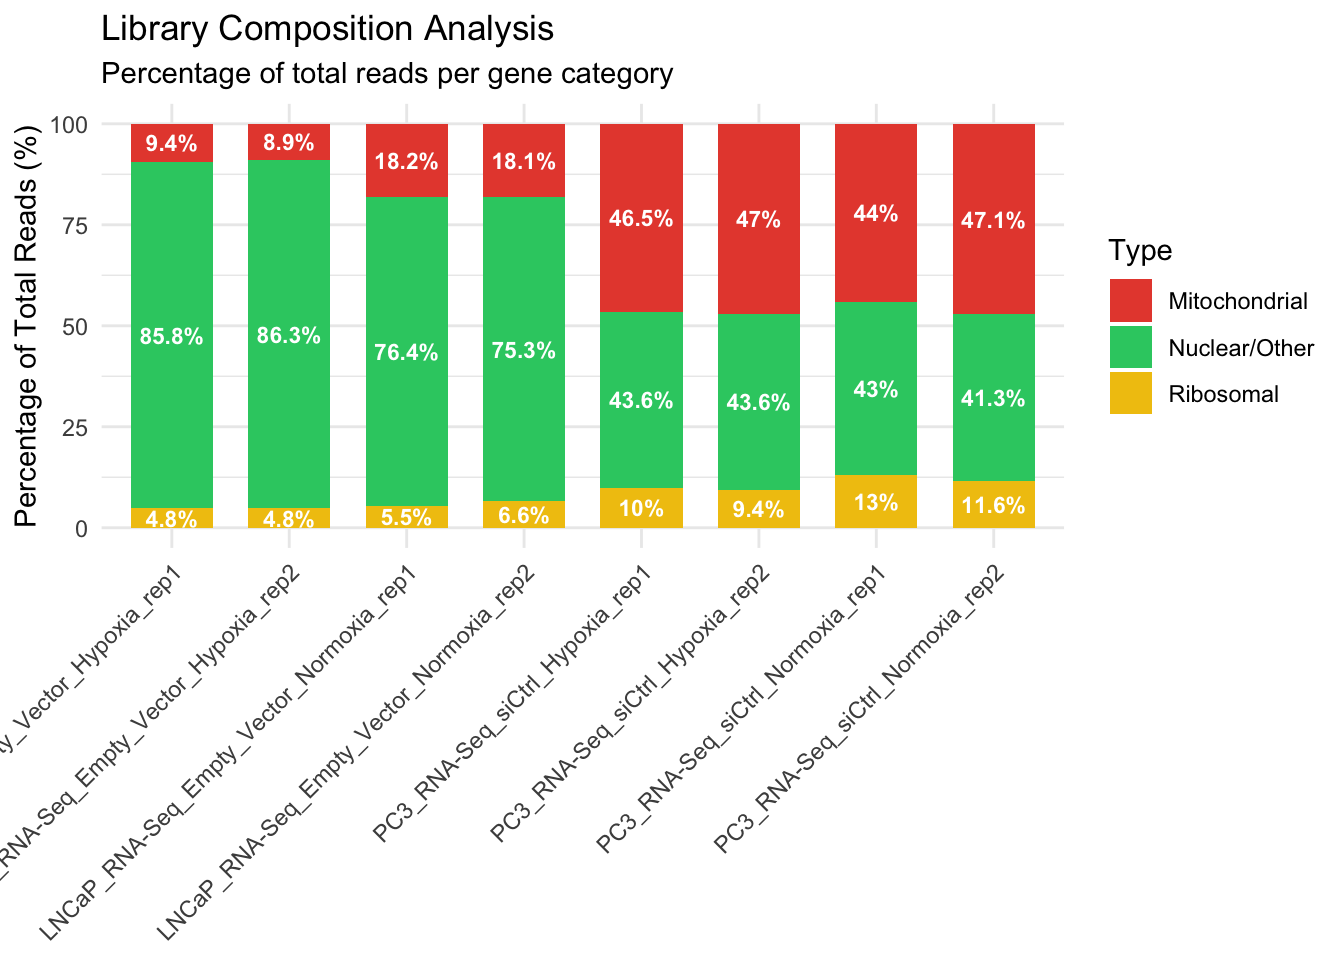
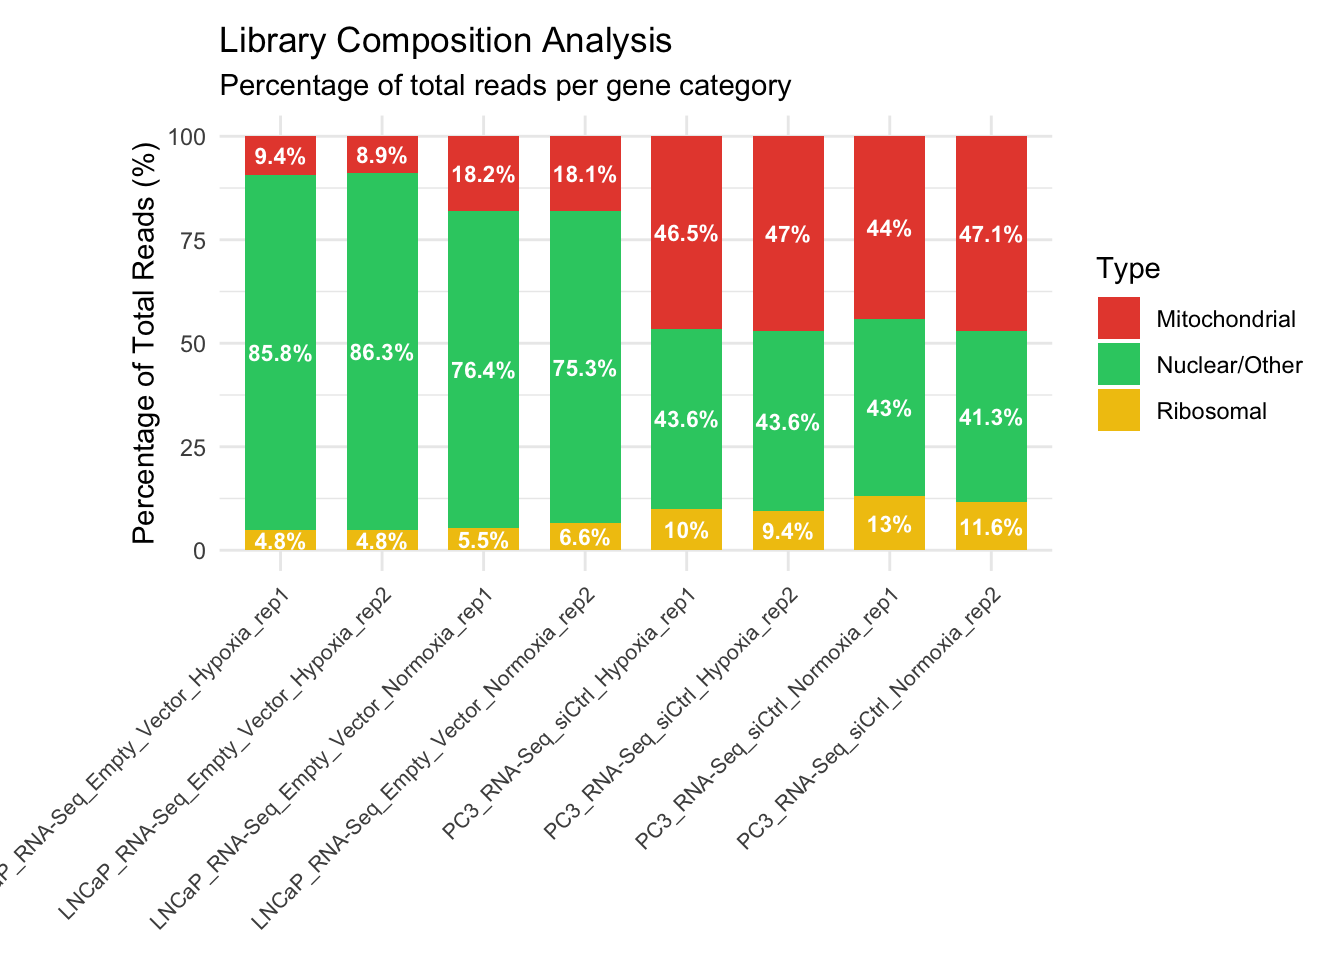
mito gene distribution

diff --git a/DGE_analysis.html b/DGE_analysis.html
@@ -239,43 +239,46 @@ AADAC                                 61                              34</code><
 <span id="cb7-6"><a href="#cb7-6" aria-hidden="true" tabindex="-1"></a>  <span class="fu">arrange</span>(Sample, <span class="fu">desc</span>(Counts))</span></code></pre></div><button title="Copy to Clipboard" class="code-copy-button"><i class="bi"></i></button></div>
 </div>
 <div class="cell">
-<div class="code-copy-outer-scaffold"><div class="sourceCode cell-code" id="cb8"><pre class="sourceCode r code-with-copy"><code class="sourceCode r"><span id="cb8-1"><a href="#cb8-1" aria-hidden="true" tabindex="-1"></a><span class="co"># 1. Prepare the data: long format for easy grouping</span></span>
-<span id="cb8-2"><a href="#cb8-2" aria-hidden="true" tabindex="-1"></a><span class="co"># 1. Calculate the proportions (efficiently grouping by Type)</span></span>
-<span id="cb8-3"><a href="#cb8-3" aria-hidden="true" tabindex="-1"></a>qc_summary <span class="ot">&lt;-</span> data <span class="sc">%&gt;%</span></span>
-<span id="cb8-4"><a href="#cb8-4" aria-hidden="true" tabindex="-1"></a>  <span class="fu">rownames_to_column</span>(<span class="at">var =</span> <span class="st">"Gene"</span>) <span class="sc">%&gt;%</span></span>
-<span id="cb8-5"><a href="#cb8-5" aria-hidden="true" tabindex="-1"></a>  <span class="fu">pivot_longer</span>(<span class="at">cols =</span> <span class="sc">-</span>Gene, <span class="at">names_to =</span> <span class="st">"Sample"</span>, <span class="at">values_to =</span> <span class="st">"Counts"</span>) <span class="sc">%&gt;%</span></span>
-<span id="cb8-6"><a href="#cb8-6" aria-hidden="true" tabindex="-1"></a>  <span class="fu">mutate</span>(</span>
-<span id="cb8-7"><a href="#cb8-7" aria-hidden="true" tabindex="-1"></a>    <span class="at">Type =</span> <span class="fu">case_when</span>(</span>
-<span id="cb8-8"><a href="#cb8-8" aria-hidden="true" tabindex="-1"></a>      <span class="fu">grepl</span>(<span class="st">"^MT-"</span>, Gene) <span class="sc">~</span> <span class="st">"Mitochondrial"</span>,</span>
-<span id="cb8-9"><a href="#cb8-9" aria-hidden="true" tabindex="-1"></a>      <span class="fu">grepl</span>(<span class="st">"^RP[SL]|^RNA45S|^RNR[12]"</span>, Gene) <span class="sc">~</span> <span class="st">"Ribosomal"</span>,</span>
-<span id="cb8-10"><a href="#cb8-10" aria-hidden="true" tabindex="-1"></a>      <span class="cn">TRUE</span> <span class="sc">~</span> <span class="st">"Nuclear/Other"</span></span>
-<span id="cb8-11"><a href="#cb8-11" aria-hidden="true" tabindex="-1"></a>    )</span>
-<span id="cb8-12"><a href="#cb8-12" aria-hidden="true" tabindex="-1"></a>  ) <span class="sc">%&gt;%</span></span>
-<span id="cb8-13"><a href="#cb8-13" aria-hidden="true" tabindex="-1"></a>  <span class="fu">group_by</span>(Sample, Type) <span class="sc">%&gt;%</span></span>
-<span id="cb8-14"><a href="#cb8-14" aria-hidden="true" tabindex="-1"></a>  <span class="fu">summarise</span>(<span class="at">Type_Total =</span> <span class="fu">sum</span>(Counts), <span class="at">.groups =</span> <span class="st">"drop"</span>) <span class="sc">%&gt;%</span></span>
-<span id="cb8-15"><a href="#cb8-15" aria-hidden="true" tabindex="-1"></a>  <span class="fu">group_by</span>(Sample) <span class="sc">%&gt;%</span></span>
-<span id="cb8-16"><a href="#cb8-16" aria-hidden="true" tabindex="-1"></a>  <span class="fu">mutate</span>(<span class="at">Percentage =</span> (Type_Total <span class="sc">/</span> <span class="fu">sum</span>(Type_Total)) <span class="sc">*</span> <span class="dv">100</span>)</span>
-<span id="cb8-17"><a href="#cb8-17" aria-hidden="true" tabindex="-1"></a></span>
-<span id="cb8-18"><a href="#cb8-18" aria-hidden="true" tabindex="-1"></a><span class="co"># 2. Create the plot with centered labels</span></span>
-<span id="cb8-19"><a href="#cb8-19" aria-hidden="true" tabindex="-1"></a><span class="fu">ggplot</span>(qc_summary, <span class="fu">aes</span>(<span class="at">x =</span> Sample, <span class="at">y =</span> Percentage, <span class="at">fill =</span> Type)) <span class="sc">+</span></span>
-<span id="cb8-20"><a href="#cb8-20" aria-hidden="true" tabindex="-1"></a>  <span class="fu">geom_bar</span>(<span class="at">stat =</span> <span class="st">"identity"</span>, <span class="at">width =</span> <span class="fl">0.7</span>) <span class="sc">+</span></span>
-<span id="cb8-21"><a href="#cb8-21" aria-hidden="true" tabindex="-1"></a>  <span class="co"># position_stack(vjust = 0.5) places the text in the middle of each segment</span></span>
-<span id="cb8-22"><a href="#cb8-22" aria-hidden="true" tabindex="-1"></a>  <span class="fu">geom_text</span>(<span class="fu">aes</span>(<span class="at">label =</span> <span class="fu">paste0</span>(<span class="fu">round</span>(Percentage, <span class="dv">1</span>), <span class="st">"%"</span>)), </span>
-<span id="cb8-23"><a href="#cb8-23" aria-hidden="true" tabindex="-1"></a>            <span class="at">position =</span> <span class="fu">position_stack</span>(<span class="at">vjust =</span> <span class="fl">0.5</span>), </span>
-<span id="cb8-24"><a href="#cb8-24" aria-hidden="true" tabindex="-1"></a>            <span class="at">size =</span> <span class="dv">3</span>,            <span class="co"># Adjust size as needed</span></span>
-<span id="cb8-25"><a href="#cb8-25" aria-hidden="true" tabindex="-1"></a>            <span class="at">color =</span> <span class="st">"white"</span>,      <span class="co"># White text usually pops better on colored bars</span></span>
-<span id="cb8-26"><a href="#cb8-26" aria-hidden="true" tabindex="-1"></a>            <span class="at">fontface =</span> <span class="st">"bold"</span>) <span class="sc">+</span></span>
-<span id="cb8-27"><a href="#cb8-27" aria-hidden="true" tabindex="-1"></a>  <span class="fu">theme_minimal</span>() <span class="sc">+</span></span>
-<span id="cb8-28"><a href="#cb8-28" aria-hidden="true" tabindex="-1"></a>  <span class="fu">scale_fill_manual</span>(<span class="at">values =</span> <span class="fu">c</span>(</span>
-<span id="cb8-29"><a href="#cb8-29" aria-hidden="true" tabindex="-1"></a>    <span class="st">"Mitochondrial"</span> <span class="ot">=</span> <span class="st">"#e74c3c"</span>, <span class="co"># Red for warning/MT</span></span>
-<span id="cb8-30"><a href="#cb8-30" aria-hidden="true" tabindex="-1"></a>    <span class="st">"Ribosomal"</span> <span class="ot">=</span> <span class="st">"#f1c40f"</span>,     <span class="co"># Yellow for Ribosomal</span></span>
-<span id="cb8-31"><a href="#cb8-31" aria-hidden="true" tabindex="-1"></a>    <span class="st">"Nuclear/Other"</span> <span class="ot">=</span> <span class="st">"#2ecc71"</span>  <span class="co"># Green for main signal</span></span>
-<span id="cb8-32"><a href="#cb8-32" aria-hidden="true" tabindex="-1"></a>  )) <span class="sc">+</span></span>
-<span id="cb8-33"><a href="#cb8-33" aria-hidden="true" tabindex="-1"></a>  <span class="fu">labs</span>(<span class="at">title =</span> <span class="st">"Library Composition Analysis"</span>,</span>
-<span id="cb8-34"><a href="#cb8-34" aria-hidden="true" tabindex="-1"></a>       <span class="at">subtitle =</span> <span class="st">"Percentage of total reads per gene category"</span>,</span>
-<span id="cb8-35"><a href="#cb8-35" aria-hidden="true" tabindex="-1"></a>       <span class="at">y =</span> <span class="st">"Percentage of Total Reads (%)"</span>,</span>
-<span id="cb8-36"><a href="#cb8-36" aria-hidden="true" tabindex="-1"></a>       <span class="at">x =</span> <span class="cn">NULL</span>) <span class="sc">+</span></span>
-<span id="cb8-37"><a href="#cb8-37" aria-hidden="true" tabindex="-1"></a>  <span class="fu">theme</span>(<span class="at">axis.text.x =</span> <span class="fu">element_text</span>(<span class="at">angle =</span> <span class="dv">45</span>, <span class="at">hjust =</span> <span class="dv">1</span>))</span></code></pre></div><button title="Copy to Clipboard" class="code-copy-button"><i class="bi"></i></button></div>
+<div class="code-copy-outer-scaffold"><div class="sourceCode cell-code" id="cb8"><pre class="sourceCode r code-with-copy"><code class="sourceCode r"><span id="cb8-1"><a href="#cb8-1" aria-hidden="true" tabindex="-1"></a><span class="co"># 1. Calculate the proportions of counts from mito/ribosomal and (efficiently grouping by Type)</span></span>
+<span id="cb8-2"><a href="#cb8-2" aria-hidden="true" tabindex="-1"></a>qc_summary <span class="ot">&lt;-</span> data <span class="sc">%&gt;%</span></span>
+<span id="cb8-3"><a href="#cb8-3" aria-hidden="true" tabindex="-1"></a>  <span class="fu">rownames_to_column</span>(<span class="at">var =</span> <span class="st">"Gene"</span>) <span class="sc">%&gt;%</span></span>
+<span id="cb8-4"><a href="#cb8-4" aria-hidden="true" tabindex="-1"></a>  <span class="fu">pivot_longer</span>(<span class="at">cols =</span> <span class="sc">-</span>Gene, <span class="at">names_to =</span> <span class="st">"Sample"</span>, <span class="at">values_to =</span> <span class="st">"Counts"</span>) <span class="sc">%&gt;%</span></span>
+<span id="cb8-5"><a href="#cb8-5" aria-hidden="true" tabindex="-1"></a>  <span class="fu">mutate</span>(</span>
+<span id="cb8-6"><a href="#cb8-6" aria-hidden="true" tabindex="-1"></a>    <span class="at">Type =</span> <span class="fu">case_when</span>(</span>
+<span id="cb8-7"><a href="#cb8-7" aria-hidden="true" tabindex="-1"></a>      <span class="fu">grepl</span>(<span class="st">"^MT-"</span>, Gene) <span class="sc">~</span> <span class="st">"Mitochondrial"</span>,</span>
+<span id="cb8-8"><a href="#cb8-8" aria-hidden="true" tabindex="-1"></a>      <span class="fu">grepl</span>(<span class="st">"^RP[SL]|^RNA45S|^RNR[12]"</span>, Gene) <span class="sc">~</span> <span class="st">"Ribosomal"</span>,</span>
+<span id="cb8-9"><a href="#cb8-9" aria-hidden="true" tabindex="-1"></a>      <span class="cn">TRUE</span> <span class="sc">~</span> <span class="st">"Nuclear/Other"</span></span>
+<span id="cb8-10"><a href="#cb8-10" aria-hidden="true" tabindex="-1"></a>    )</span>
+<span id="cb8-11"><a href="#cb8-11" aria-hidden="true" tabindex="-1"></a>  ) <span class="sc">%&gt;%</span></span>
+<span id="cb8-12"><a href="#cb8-12" aria-hidden="true" tabindex="-1"></a>  <span class="fu">group_by</span>(Sample, Type) <span class="sc">%&gt;%</span></span>
+<span id="cb8-13"><a href="#cb8-13" aria-hidden="true" tabindex="-1"></a>  <span class="fu">summarise</span>(<span class="at">Type_Total =</span> <span class="fu">sum</span>(Counts), <span class="at">.groups =</span> <span class="st">"drop"</span>) <span class="sc">%&gt;%</span></span>
+<span id="cb8-14"><a href="#cb8-14" aria-hidden="true" tabindex="-1"></a>  <span class="fu">group_by</span>(Sample) <span class="sc">%&gt;%</span></span>
+<span id="cb8-15"><a href="#cb8-15" aria-hidden="true" tabindex="-1"></a>  <span class="fu">mutate</span>(<span class="at">Percentage =</span> (Type_Total <span class="sc">/</span> <span class="fu">sum</span>(Type_Total)) <span class="sc">*</span> <span class="dv">100</span>)</span>
+<span id="cb8-16"><a href="#cb8-16" aria-hidden="true" tabindex="-1"></a></span>
+<span id="cb8-17"><a href="#cb8-17" aria-hidden="true" tabindex="-1"></a><span class="co"># 2. Create the plot with centered labels</span></span>
+<span id="cb8-18"><a href="#cb8-18" aria-hidden="true" tabindex="-1"></a><span class="fu">ggplot</span>(qc_summary, <span class="fu">aes</span>(<span class="at">x =</span> Sample, <span class="at">y =</span> Percentage, <span class="at">fill =</span> Type)) <span class="sc">+</span></span>
+<span id="cb8-19"><a href="#cb8-19" aria-hidden="true" tabindex="-1"></a>  <span class="fu">geom_bar</span>(<span class="at">stat =</span> <span class="st">"identity"</span>, <span class="at">width =</span> <span class="fl">0.7</span>) <span class="sc">+</span></span>
+<span id="cb8-20"><a href="#cb8-20" aria-hidden="true" tabindex="-1"></a>  <span class="co"># position_stack(vjust = 0.5) places the text in the middle of each segment</span></span>
+<span id="cb8-21"><a href="#cb8-21" aria-hidden="true" tabindex="-1"></a>  <span class="fu">geom_text</span>(<span class="fu">aes</span>(<span class="at">label =</span> <span class="fu">paste0</span>(<span class="fu">round</span>(Percentage, <span class="dv">1</span>), <span class="st">"%"</span>)), </span>
+<span id="cb8-22"><a href="#cb8-22" aria-hidden="true" tabindex="-1"></a>            <span class="at">position =</span> <span class="fu">position_stack</span>(<span class="at">vjust =</span> <span class="fl">0.5</span>), </span>
+<span id="cb8-23"><a href="#cb8-23" aria-hidden="true" tabindex="-1"></a>            <span class="at">size =</span> <span class="dv">3</span>,            <span class="co"># Adjust size as needed</span></span>
+<span id="cb8-24"><a href="#cb8-24" aria-hidden="true" tabindex="-1"></a>            <span class="at">color =</span> <span class="st">"white"</span>,      <span class="co"># White text usually pops better on colored bars</span></span>
+<span id="cb8-25"><a href="#cb8-25" aria-hidden="true" tabindex="-1"></a>            <span class="at">fontface =</span> <span class="st">"bold"</span>) <span class="sc">+</span></span>
+<span id="cb8-26"><a href="#cb8-26" aria-hidden="true" tabindex="-1"></a>  <span class="fu">theme_minimal</span>() <span class="sc">+</span></span>
+<span id="cb8-27"><a href="#cb8-27" aria-hidden="true" tabindex="-1"></a>  <span class="fu">scale_fill_manual</span>(<span class="at">values =</span> <span class="fu">c</span>(</span>
+<span id="cb8-28"><a href="#cb8-28" aria-hidden="true" tabindex="-1"></a>    <span class="st">"Mitochondrial"</span> <span class="ot">=</span> <span class="st">"#e74c3c"</span>, <span class="co"># Red for warning/MT</span></span>
+<span id="cb8-29"><a href="#cb8-29" aria-hidden="true" tabindex="-1"></a>    <span class="st">"Ribosomal"</span> <span class="ot">=</span> <span class="st">"#f1c40f"</span>,     <span class="co"># Yellow for Ribosomal</span></span>
+<span id="cb8-30"><a href="#cb8-30" aria-hidden="true" tabindex="-1"></a>    <span class="st">"Nuclear/Other"</span> <span class="ot">=</span> <span class="st">"#2ecc71"</span>  <span class="co"># Green for main signal</span></span>
+<span id="cb8-31"><a href="#cb8-31" aria-hidden="true" tabindex="-1"></a>  )) <span class="sc">+</span></span>
+<span id="cb8-32"><a href="#cb8-32" aria-hidden="true" tabindex="-1"></a>  <span class="fu">labs</span>(<span class="at">title =</span> <span class="st">"Library Composition Analysis"</span>,</span>
+<span id="cb8-33"><a href="#cb8-33" aria-hidden="true" tabindex="-1"></a>       <span class="at">subtitle =</span> <span class="st">"Percentage of total reads per gene category"</span>,</span>
+<span id="cb8-34"><a href="#cb8-34" aria-hidden="true" tabindex="-1"></a>       <span class="at">y =</span> <span class="st">"Percentage of Total Reads (%)"</span>,</span>
+<span id="cb8-35"><a href="#cb8-35" aria-hidden="true" tabindex="-1"></a>       <span class="at">x =</span> <span class="cn">NULL</span>) <span class="sc">+</span> <span class="fu">coord_cartesian</span>(<span class="at">clip =</span> <span class="st">"off"</span>) <span class="sc">+</span> </span>
+<span id="cb8-36"><a href="#cb8-36" aria-hidden="true" tabindex="-1"></a>  <span class="fu">theme</span>(</span>
+<span id="cb8-37"><a href="#cb8-37" aria-hidden="true" tabindex="-1"></a>    <span class="at">axis.text.x =</span> <span class="fu">element_text</span>(<span class="at">angle =</span> <span class="dv">45</span>, <span class="at">hjust =</span> <span class="dv">1</span>,, <span class="at">size =</span> <span class="dv">8</span>),</span>
+<span id="cb8-38"><a href="#cb8-38" aria-hidden="true" tabindex="-1"></a>    <span class="co"># Add a little bit of padding to the whole plot to make sure it shows up</span></span>
+<span id="cb8-39"><a href="#cb8-39" aria-hidden="true" tabindex="-1"></a>    <span class="at">plot.margin =</span> <span class="fu">margin</span>(<span class="dv">10</span>, <span class="dv">10</span>, <span class="dv">10</span>, <span class="dv">50</span>) </span>
+<span id="cb8-40"><a href="#cb8-40" aria-hidden="true" tabindex="-1"></a>  ) <span class="co">#theme(axis.text.x = element_text(angle = 45, hjust = 1))</span></span></code></pre></div><button title="Copy to Clipboard" class="code-copy-button"><i class="bi"></i></button></div>
 <div class="cell-output-display">
 <div>
 <figure class="figure">
@@ -284,6 +287,7 @@ AADAC                                 61                              34</code><
 </div>
 </div>
 </div>
+<p>The mitochondria and Ribosomal RNA counts are relatively low compared to the rest of the counts in LNCaP samples but in PC3 samples there mitochondrial counts are very high. Could be</p>
 <div class="cell">
 <div class="code-copy-outer-scaffold"><div class="sourceCode cell-code" id="cb9"><pre class="sourceCode r code-with-copy"><code class="sourceCode r"><span id="cb9-1"><a href="#cb9-1" aria-hidden="true" tabindex="-1"></a><span class="co"># 1. Calculate column sums and convert to a data frame for plotting</span></span>
 <span id="cb9-2"><a href="#cb9-2" aria-hidden="true" tabindex="-1"></a><span class="co"># Calculate library sizes in millions</span></span>
@@ -293,13 +297,12 @@ AADAC                                 61                              34</code><
 <span id="cb9-6"><a href="#cb9-6" aria-hidden="true" tabindex="-1"></a>)</span>
 <span id="cb9-7"><a href="#cb9-7" aria-hidden="true" tabindex="-1"></a><span class="co"># Create the plot</span></span>
 <span id="cb9-8"><a href="#cb9-8" aria-hidden="true" tabindex="-1"></a><span class="fu">ggplot</span>(lib_size, <span class="fu">aes</span>(<span class="at">x =</span> Sample, <span class="at">y =</span> Counts_Millions, <span class="at">fill =</span> Sample)) <span class="sc">+</span></span>
-<span id="cb9-9"><a href="#cb9-9" aria-hidden="true" tabindex="-1"></a>  <span class="fu">geom_bar</span>(<span class="at">stat =</span> <span class="st">"identity"</span>) <span class="sc">+</span></span>
-<span id="cb9-10"><a href="#cb9-10" aria-hidden="true" tabindex="-1"></a>  <span class="fu">theme_minimal</span>() <span class="sc">+</span></span>
-<span id="cb9-11"><a href="#cb9-11" aria-hidden="true" tabindex="-1"></a>  <span class="fu">theme</span>(<span class="at">axis.text.x =</span> <span class="fu">element_text</span>(<span class="at">angle =</span> <span class="dv">60</span>, <span class="at">hjust =</span> <span class="dv">1</span>)) <span class="sc">+</span></span>
-<span id="cb9-12"><a href="#cb9-12" aria-hidden="true" tabindex="-1"></a>  <span class="fu">labs</span>(<span class="at">title =</span> <span class="st">"Total Counts per Sample"</span>,</span>
-<span id="cb9-13"><a href="#cb9-13" aria-hidden="true" tabindex="-1"></a>       <span class="at">x =</span> <span class="st">"Sample Name"</span>,</span>
-<span id="cb9-14"><a href="#cb9-14" aria-hidden="true" tabindex="-1"></a>       <span class="at">y =</span> <span class="fu">expression</span>(<span class="st">"Total Read Counts ("</span> <span class="sc">*</span> <span class="dv">10</span><span class="sc">^</span><span class="dv">6</span> <span class="sc">*</span> <span class="st">")"</span>)) <span class="sc">+</span></span>
-<span id="cb9-15"><a href="#cb9-15" aria-hidden="true" tabindex="-1"></a>  <span class="fu">guides</span>(<span class="at">fill =</span> <span class="st">"none"</span>)</span></code></pre></div><button title="Copy to Clipboard" class="code-copy-button"><i class="bi"></i></button></div>
+<span id="cb9-9"><a href="#cb9-9" aria-hidden="true" tabindex="-1"></a>  <span class="fu">theme_minimal</span>() <span class="sc">+</span></span>
+<span id="cb9-10"><a href="#cb9-10" aria-hidden="true" tabindex="-1"></a>  <span class="fu">theme</span>(<span class="at">axis.text.x =</span> <span class="fu">element_text</span>(<span class="at">angle =</span> <span class="dv">60</span>, <span class="at">hjust =</span> <span class="dv">1</span>)) <span class="sc">+</span></span>
+<span id="cb9-11"><a href="#cb9-11" aria-hidden="true" tabindex="-1"></a>  <span class="fu">labs</span>(<span class="at">title =</span> <span class="st">"Total Counts per Sample"</span>,</span>
+<span id="cb9-12"><a href="#cb9-12" aria-hidden="true" tabindex="-1"></a>       <span class="at">x =</span> <span class="st">"Sample Name"</span>,</span>
+<span id="cb9-13"><a href="#cb9-13" aria-hidden="true" tabindex="-1"></a>       <span class="at">y =</span> <span class="fu">expression</span>(<span class="st">"Total Read Counts ("</span> <span class="sc">*</span> <span class="dv">10</span><span class="sc">^</span><span class="dv">6</span> <span class="sc">*</span> <span class="st">")"</span>)) <span class="sc">+</span></span>
+<span id="cb9-14"><a href="#cb9-14" aria-hidden="true" tabindex="-1"></a>  <span class="fu">guides</span>(<span class="at">fill =</span> <span class="st">"none"</span>)</span></code></pre></div><button title="Copy to Clipboard" class="code-copy-button"><i class="bi"></i></button></div>
 <div class="cell-output-display">
 <div>
 <figure class="figure">
